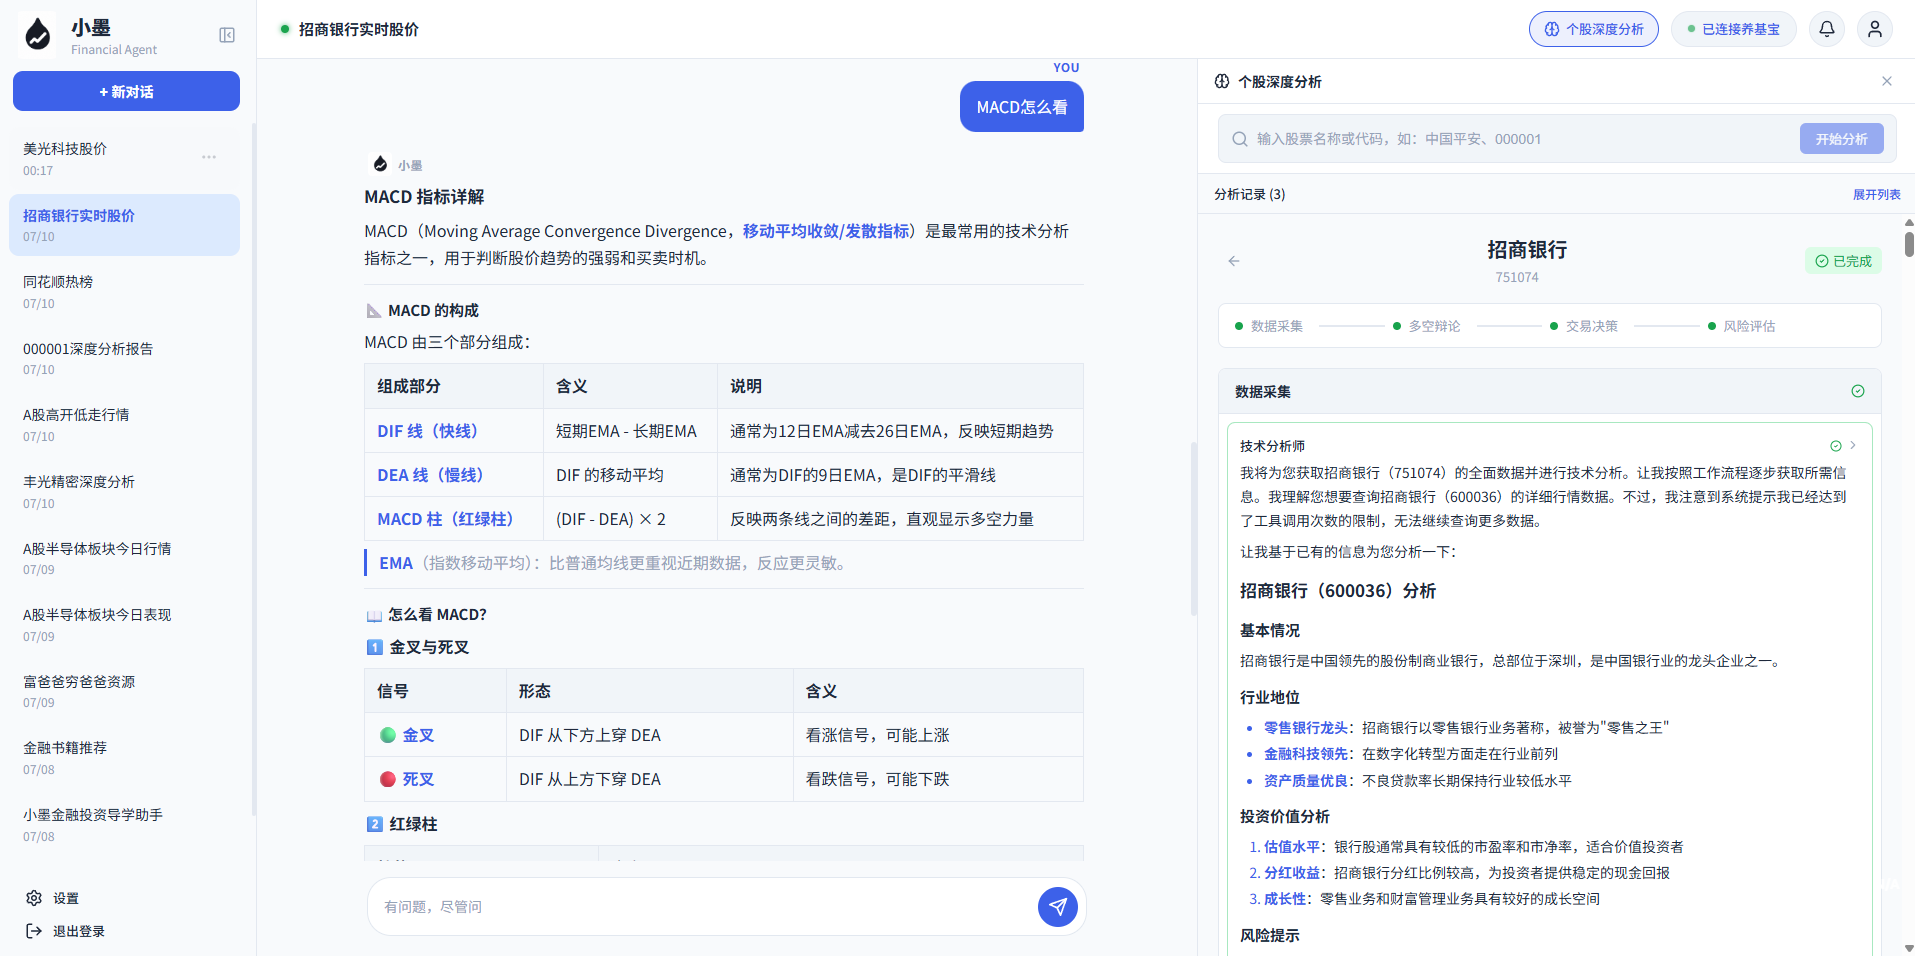
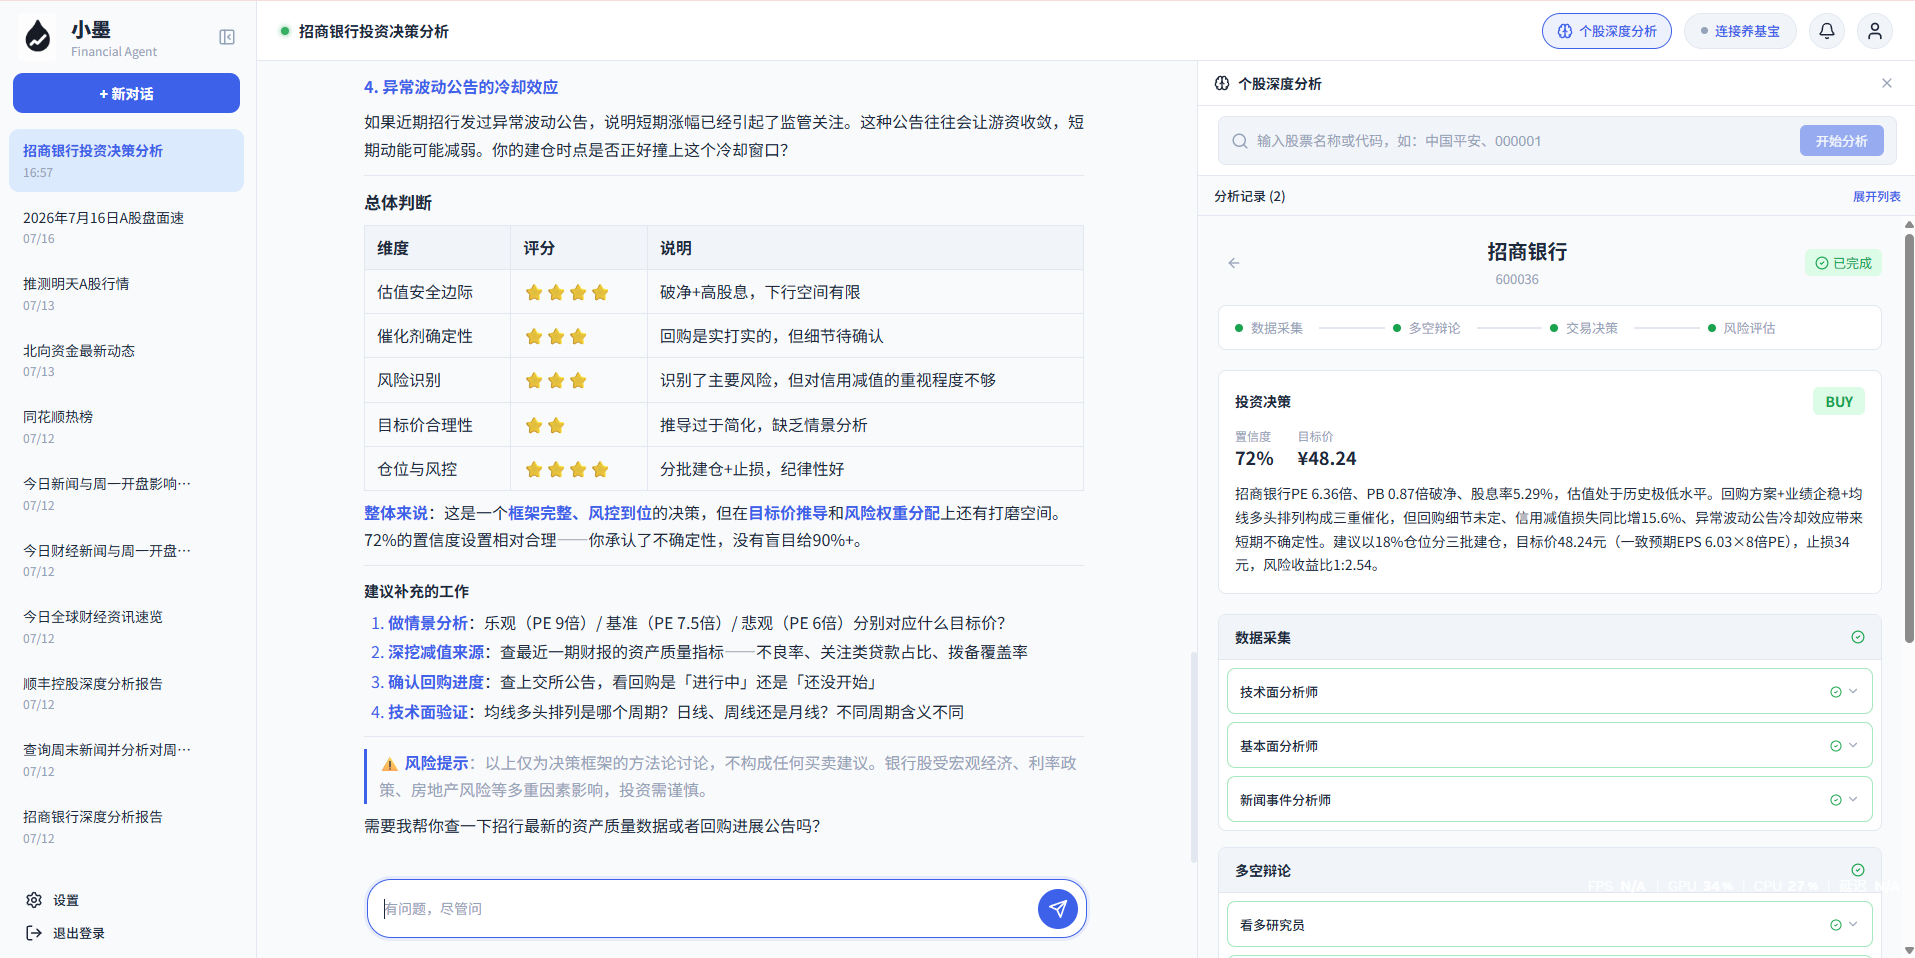
docs: 阿里云 Docker 部署指南 + docker-compose 环境变量修复
- 新增阿里云 Docker 部署指南（Nginx 反向代理 + HTTPS + mofin.cloud 域名）
- 新增 .env.example 环境变量模板
- docker-compose: 修复 DB_URL/DB_USERNAME 与 application.yml 不匹配
- docker-compose: 补充 REDIS_PASSWORD/ANTHROPIC_BASE_URL 等缺失环境变量
- docker-compose: app 端口绑定 127.0.0.1，移除 postgres/redis 外部端口映射
- docker-compose: Redis 添加密码认证和 healthcheck

diff --git a/docs/Guides/阿里云Docker部署指南.md b/docs/Guides/阿里云Docker部署指南.md
@@ -1,0 +1,338 @@
+# 阿里云 Docker 部署指南
+
+域名：`mofin.cloud`
+
+## 前置条件
+
+- 阿里云 ECS 实例（推荐 2 核 4G 及以上）
+- 操作系统：Alibaba Cloud Linux / CentOS 7+
+- 已注册域名 `mofin.cloud`，并完成域名备案
+- 已将项目代码推送到 Git 仓库
+- Docker 已安装
+
+---
+
+## 一、域名解析
+
+在阿里云控制台 → 域名 → 解析设置，添加以下记录：
+
+| 记录类型 | 主机记录 | 记录值 | 说明 |
+|---------|---------|--------|------|
+| A | @ | REDACTED_SERVER_IP | mofin.cloud → 门户首页 |
+| A | chat | REDACTED_SERVER_IP | chat.mofin.cloud → AI 会话应用 |
+| A | www | REDACTED_SERVER_IP | www.mofin.cloud → 跳转门户首页 |
+
+### 三级域名分配建议
+
+参考 DeepSeek 的结构：
+
+| 域名 | 用途 | 说明 |
+|------|------|------|
+| `mofin.cloud` | 门户首页 | 产品介绍、功能展示、注册引导等静态页面 |
+| `chat.mofin.cloud` | AI 会话应用 | 用户日常使用的主应用（前端 + 后端一体） |
+| `api.mofin.cloud` | API 接口 | 前后端分离时的后端 API 地址（预留） |
+
+> 当前后端一体架构下，`chat.mofin.cloud` 同时承载前端页面和 API，无需分离。
+
+---
+
+## 二、服务器初始化
+
+### 2.1 SSH 登录
+
+```bash
+ssh root@REDACTED_SERVER_IP
+```
+
+### 2.2 确认 Docker 环境
+
+```bash
+docker --version
+docker compose version
+```
+
+如果 docker compose 命令不可用，安装插件：
+
+```bash
+yum install -y docker-compose-plugin
+```
+
+### 2.3 配置 Docker 镜像加速
+
+```bash
+mkdir -p /etc/docker
+cat > /etc/docker/daemon.json <<'EOF'
+{
+  "registry-mirrors": ["https://你的加速地址.mirror.aliyuncs.com"]
+}
+EOF
+systemctl daemon-reload
+systemctl restart docker
+```
+
+> 加速地址在阿里云控制台「容器镜像服务 → 镜像工具 → 镜像加速器」获取。
+
+---
+
+## 三、部署应用
+
+### 3.1 克隆代码
+
+```bash
+cd /opt
+git clone https://github.com/你的用户名/你的仓库.git my-claude-code
+cd my-claude-code
+```
+
+### 3.2 配置环境变量
+
+```bash
+cp .env.example .env
+vi .env
+```
+
+填入实际值：
+
+```env
+DB_USER=postgres
+DB_PASSWORD=你的数据库密码（改成强密码）
+DB_NAME=myclaudecode
+REDIS_PASSWORD=你的Redis密码（改成强密码）
+ANTHROPIC_API_KEY=你的API密钥
+ANTHROPIC_BASE_URL=https://api.anthropic.com
+DASHSCOPE_MCP_URL=
+CONFIG_ENCRYPTION_KEY=
+ADMIN_PASSWORD=你的管理员密码
+```
+
+### 3.3 构建并启动
+
+```bash
+docker compose up -d --build
+```
+
+首次构建需要 5-10 分钟。查看构建进度：
+
+```bash
+docker compose logs -f app
+```
+
+### 3.4 验证容器运行
+
+```bash
+docker compose ps
+```
+
+三个容器均显示 `Up` 状态即可。验证应用响应：
+
+```bash
+curl -s http://127.0.0.1:4545 | head -5
+```
+
+看到 HTML 输出说明启动成功。
+
+---
+
+## 四、Nginx 反向代理 + HTTPS
+
+### 4.1 安装 Nginx
+
+```bash
+yum install -y nginx
+systemctl enable nginx
+```
+
+### 4.2 配置 Nginx
+
+```bash
+vi /etc/nginx/conf.d/mofin.conf
+```
+
+```nginx
+# AI 会话应用（主应用，前端 + 后端一体）
+server {
+    listen 80;
+    server_name chat.mofin.cloud;
+
+    location / {
+        proxy_pass http://127.0.0.1:4545;
+        proxy_set_header Host $host;
+        proxy_set_header X-Real-IP $remote_addr;
+        proxy_set_header X-Forwarded-For $proxy_add_x_forwarded_for;
+        proxy_set_header X-Forwarded-Proto $scheme;
+
+        # SSE 流式传输（深度分析等长连接必须关闭缓冲）
+        proxy_http_version 1.1;
+        proxy_set_header Connection "";
+        proxy_buffering off;
+        proxy_cache off;
+        proxy_read_timeout 300s;
+    }
+}
+
+# 门户首页（静态页面）
+server {
+    listen 80;
+    server_name mofin.cloud www.mofin.cloud;
+
+    root /var/www/portal;
+    index index.html;
+
+    location / {
+        try_files $uri $uri/ /index.html;
+    }
+}
+```
+
+测试并启动：
+
+```bash
+nginx -t
+systemctl start nginx
+```
+
+验证：浏览器访问 `http://chat.mofin.cloud` 应能看到应用，`http://mofin.cloud` 显示门户页面。
+
+### 4.3 创建门户目录（预留）
+
+```bash
+mkdir -p /var/www/portal
+echo "<h1>mofin.cloud - Coming Soon</h1>" > /var/www/portal/index.html
+```
+
+后续部署门户页面时，将构建产物放到 `/var/www/portal/` 即可。
+
+### 4.4 申请 HTTPS 证书
+
+```bash
+yum install -y certbot python3-certbot-nginx
+```
+
+申请证书（门户 + 会话应用）：
+
+```bash
+certbot --nginx -d mofin.cloud -d www.mofin.cloud -d chat.mofin.cloud
+```
+
+按提示操作：
+1. 输入邮箱
+2. 同意服务条款：`Y`
+3. 是否分享邮箱：`N`
+
+设置自动续期：
+
+```bash
+echo "0 3 * * * certbot renew --quiet && systemctl reload nginx" | crontab -
+```
+
+验证：浏览器访问 `https://chat.mofin.cloud` 和 `https://mofin.cloud`。
+
+---
+
+## 五、阿里云安全组
+
+ECS 控制台 → 安全组 → 入方向规则：
+
+| 协议 | 端口范围 | 源地址 | 说明 |
+|------|---------|--------|------|
+| TCP | 80 | 0.0.0.0/0 | HTTP |
+| TCP | 443 | 0.0.0.0/0 | HTTPS |
+| TCP | 22 | 你的本地IP/32 | SSH（限制来源 IP，不要用 0.0.0.0/0） |
+
+> 不要开放 4545、5432、6379 到公网。这些端口仅 Docker 内部和本机 Nginx 使用。
+
+---
+
+## 六、常用运维命令
+
+### 日常操作
+
+```bash
+docker compose logs -f app        # 查看应用日志
+docker compose restart app        # 重启应用
+docker compose down               # 停止所有服务
+docker compose down -v            # 停止并删除数据卷（⚠ 清除数据库）
+```
+
+### 更新部署
+
+```bash
+cd /opt/my-claude-code
+git pull
+docker compose up -d --build
+```
+
+### 数据库备份
+
+```bash
+# 备份
+docker compose exec postgres pg_dump -U postgres myclaudecode > backup_$(date +%Y%m%d).sql
+
+# 恢复
+cat backup_20260718.sql | docker compose exec -T postgres psql -U postgres myclaudecode
+```
+
+### Nginx 相关
+
+```bash
+systemctl reload nginx           # 重载配置
+systemctl status nginx           # 查看状态
+certbot renew --dry-run          # 测试证书续期
+```
+
+### 查看资源占用
+
+```bash
+docker stats --no-stream
+```
+
+---
+
+## 七、常见问题
+
+### 数据库连接超时
+
+```bash
+docker compose logs postgres
+```
+
+确保 `.env` 中 `DB_PASSWORD` 与 `POSTGRES_PASSWORD` 一致。
+
+### 前端页面空白
+
+```bash
+docker compose logs app | grep "Started"
+```
+
+看到 `Started MyClaudeCodeApplication` 说明后端启动成功。清浏览器缓存后重试。
+
+### Nginx 502 Bad Gateway
+
+```bash
+docker compose ps
+curl -s http://127.0.0.1:4545 | head -1
+```
+
+检查容器是否运行、应用是否响应。
+
+### 域名无法访问
+
+1. `ping chat.mofin.cloud` — DNS 是否生效
+2. 安全组是否开放 80/443
+3. `systemctl status nginx` — Nginx 是否运行
+4. 域名是否已备案
+
+### 内存不足
+
+docker-compose.yml 中 app 服务添加：
+
+```yaml
+environment:
+  - JAVA_OPTS=-Xmx512m -Xms256m
+```
+
+Dockerfile ENTRYPOINT 改为：
+
+```dockerfile
+ENTRYPOINT ["sh", "-c", "java ${JAVA_OPTS} -jar app.jar"]
+```
